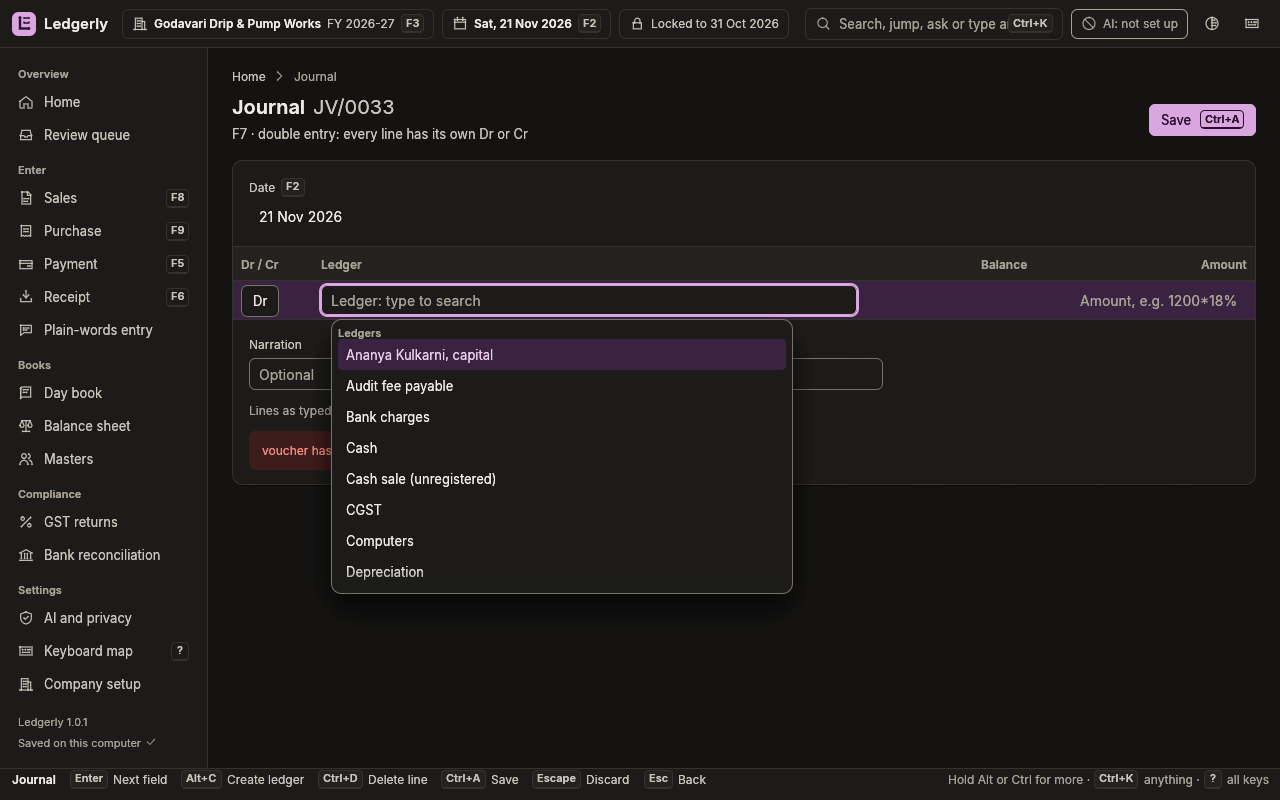
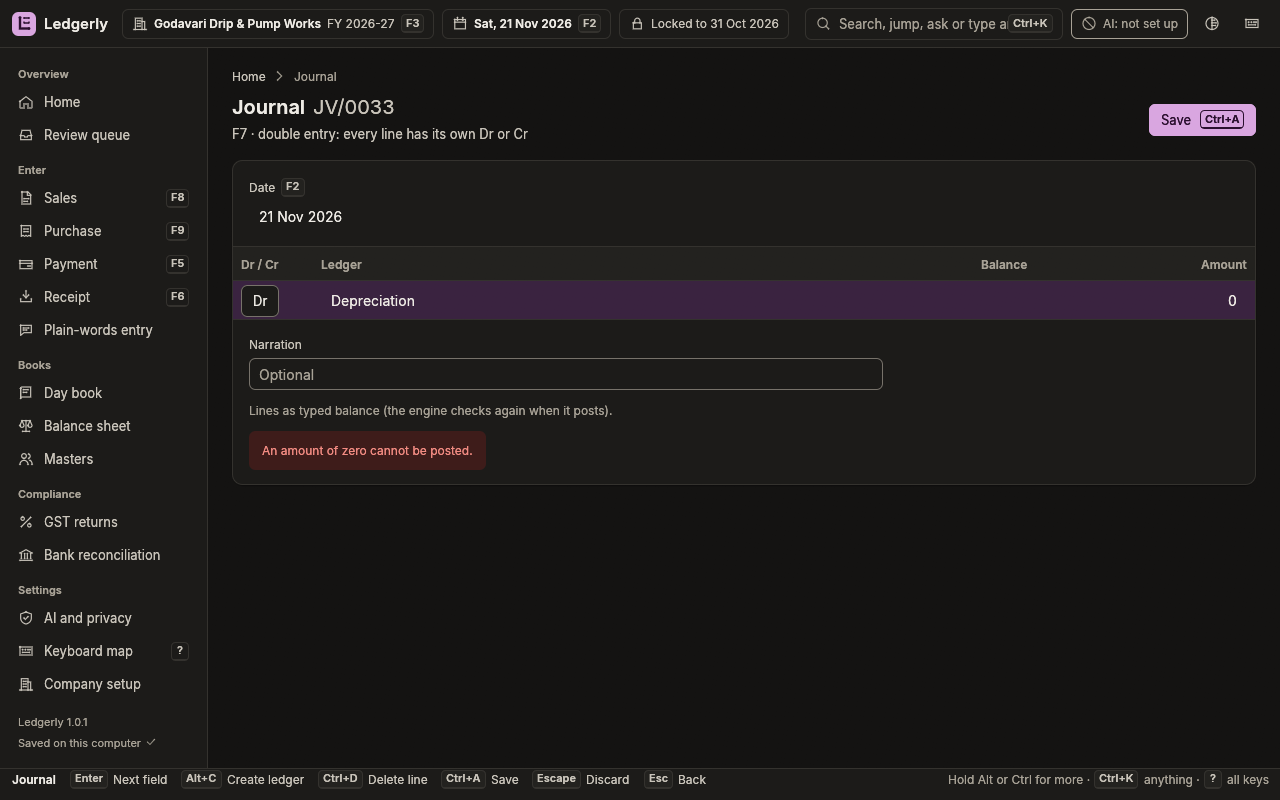
Journal error capture shows its reason; cite sources; test F4
The journal validation-error state is now a debit of zero (the ledger list no
longer covers the reason) and both journal flows end with an Expect. PARITY-GAPS
cites the help page for debit notes and records the item-invoice subtitle on notes.

Changed region(s): [[0.2188, 0.3438, 0.6875, 0.75], [0.8438, 0.375, 0.9062, 0.4062], [0.9375, 0.375, 0.9688, 0.4062]]

diff --git a/crates/ledgerly-app/examples/ui_snapshots.rs b/crates/ledgerly-app/examples/ui_snapshots.rs
@@ -1415,7 +1415,7 @@ fn light_shots() -> Vec<Shot> {
             .type_text("1500")
             .press(&[(Key::Enter, NONE), (Key::Enter, NONE)]),
         // Purchase entry (no mock state: modelled on `sales-invoice.default` and the form half of
-        // `purchase-bill.accepted`, index.html:402): Nilgiri Steel Traders' bill NST/1152 from
+        // `purchase-bill.accepted`, index.html:1488-1489): Nilgiri Steel Traders' bill NST/1152 from
         // Karnataka, delivered here (place 27, so IGST).
         invoice_line(
             invoice_line(
@@ -1533,11 +1533,16 @@ fn light_shots() -> Vec<Shot> {
             .press(&[(Key::Enter, NONE)])
             .type_text("Plant and")
             .press(&[(Key::Enter, NONE), (Key::Enter, NONE)])
-            .type_text("November depreciation, plant and machinery"),
-        // Ctrl+A on a journal with no lines: refused with the reason, nothing is saved.
+            .type_text("November depreciation, plant and machinery")
+            .expect("Journal", None),
+        // A debit of zero: Enter is refused with the reason, the keyboard stays on the amount.
         shot("journal.validation-error", &[(Key::F7, NONE)])
             .on(Fixture::Godavari)
-            .press(&[(Key::A, Modifiers::COMMAND)]),
+            .type_text("Depreciation")
+            .press(&[(Key::Enter, NONE)])
+            .type_text("0")
+            .press(&[(Key::Enter, NONE)])
+            .expect("Journal", None),
         // A blank line ends the lines; Enter on the narration asks to save.
         three_lines(godavari_invoice(
             "sales-invoice.save-confirm",

diff --git a/crates/ledgerly-app/tests/s11_entry_screens.rs b/crates/ledgerly-app/tests/s11_entry_screens.rs
@@ -289,6 +289,18 @@ fn alt_f6_and_alt_f5_open_the_credit_and_debit_notes() {
     );
 }
 
+#[test]
+fn f4_on_home_opens_the_contra_form() {
+    // derived: F4 Contra, the keyboard shortcut page cited above.
+    let (trail, notice) = trail_after("f4_home", Key::F4, Modifiers::NONE);
+    assert_eq!(notice, None, "{trail:?}");
+    assert_eq!(
+        trail.get(1).map(String::as_str),
+        Some("Contra"),
+        "{trail:?}"
+    );
+}
+
 // ---- the item invoice screen's wording for purchases and notes ----------------------------------
 
 use ledgerly_app::screens::item_invoice::{
@@ -333,7 +345,7 @@ fn a_purchase_and_a_debit_note_name_the_supplier_and_the_bill() {
 fn a_typed_bill_date_is_read_and_a_wrong_one_is_refused() {
     // derived: the text "17-11-2026" is 17 November 2026 (day-month-year, as every date field of
     // the app); 31 November does not exist; nothing typed means no date (the field is optional,
-    // as TallyPrime's supplier invoice date is not demanded by the voucher).
+    // our own design choice: the voucher does not need the date to post).
     let fy = FinancialYear::april(2026).unwrap();
     let mut draft = InvoiceDraft::new(
         VoucherTypeId(1),

diff --git a/design/PARITY-GAPS.md b/design/PARITY-GAPS.md
@@ -502,11 +502,16 @@ Captures: `purchase.*`, `credit-note.*`, `debit-note.*` and `journal.*` (each `d
   reads "Supplier" on a purchase and a debit note.
 - **changed: F9, F7, Alt+F6 and Alt+F5 now open their forms with a company open.** F9 on Home
   said "not yet"; F7, Alt+F6 and Alt+F5 did nothing outside the palette.
-- **by design: a debit note goes back to the supplier.** The accounting product's debit note
-  records a purchase return. Under s.34(3) CGST Act the supplier issues a debit note when the
-  value rises; ours is the buyer's own voucher and is not a GST document, so it is not
-  reported in GSTR-1 as one (same source, read 2026-11-25). A GST debit note issued by the
-  company as supplier is not built.
+- **by design: a debit note goes back to the supplier.** The accounting product records a
+  purchase return as a Debit Note against the supplier, asking for the original invoice number
+  and date (help.tallysolutions.com/tally-prime/purchase-process/purchase-returns-tally/, read
+  2026-11-25); ours does the same. Under s.34(3) CGST Act it is the supplier who issues a GST
+  debit note when the value rises (taxguru.in page above, read 2026-11-25), so ours is the
+  buyer's own voucher. Whether the engine leaves such a note out of GSTR-1 was not checked in
+  this round; a GST debit note issued by the company as supplier is not built.
+- **gap: the notes keep the subtitle and mode button of an item invoice.** "Item invoice . tax
+  is recomputed by the GST engine on every keystroke" and the "Item invoice Ctrl+H" button
+  appear under the Credit Note and Debit Note titles.
 - **gap: eligible ITC is not shown on a purchase.** `ledgerly-gst` has `itc_eligibility`, but
   `Api::invoice_gst_with_bills` does not return it for a draft, and the UI must not compute it.
   The tax box shows the engine's tax lines only; a new API call is needed.
